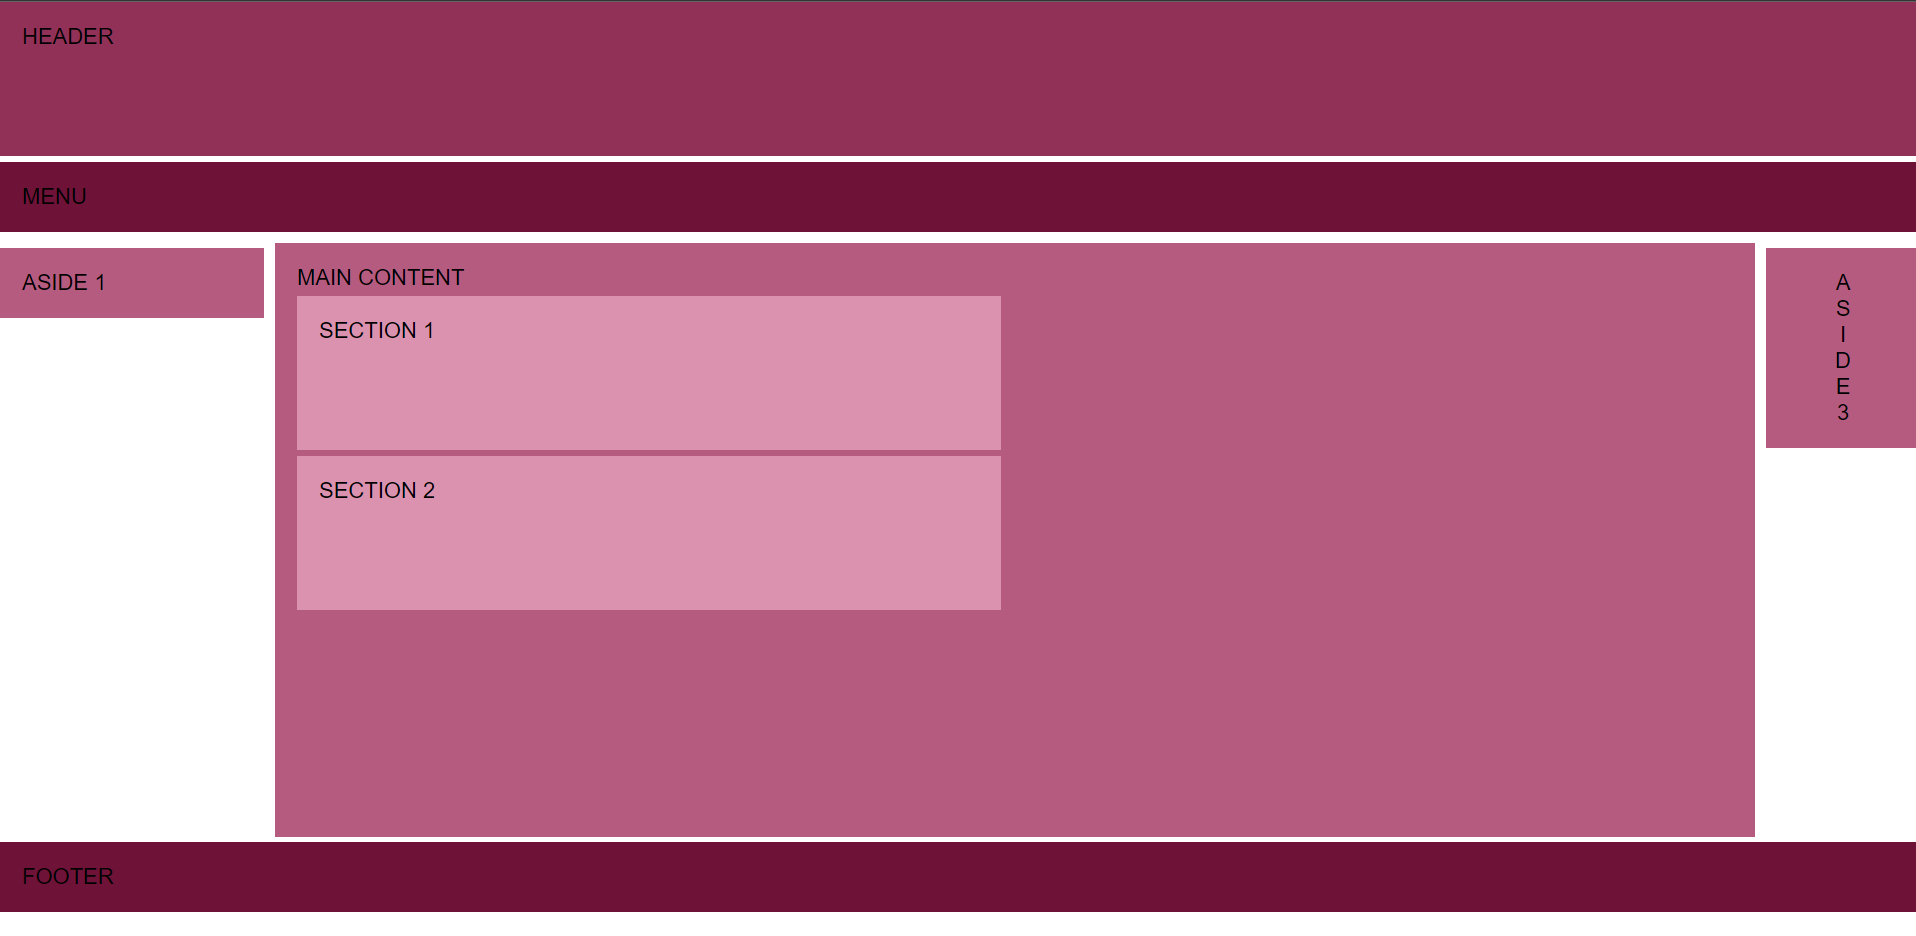
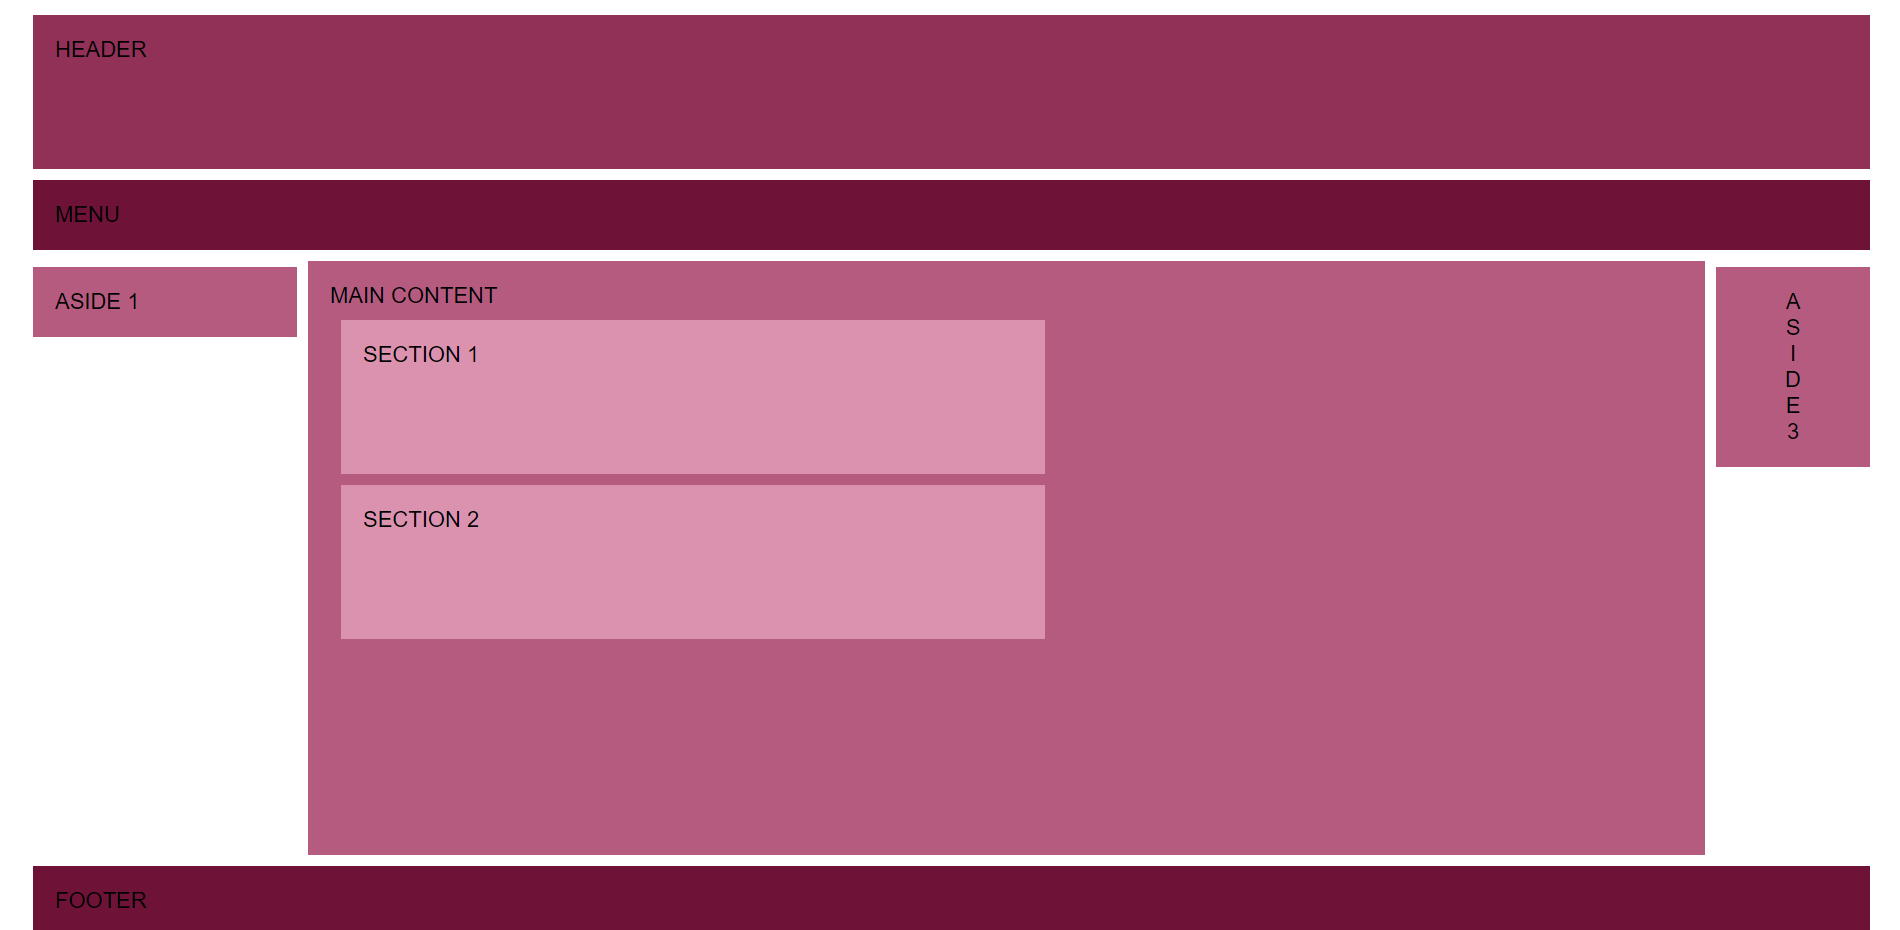
task3 HW3 finish

Changed region(s): [[0.0, 0.0, 1.0, 1.0]]

diff --git a/HW3/css/style3.css b/HW3/css/style3.css
@@ -1,6 +1,6 @@
 *{
     padding: 0px;
-    margin: 0px;
+    margin: 10px;
     border: none;
     color: black;
     font-size: 20px;
@@ -21,7 +21,7 @@ header{
 menu{
     background: #6E1237;
     padding: 20px;
-    margin: 5px 0px 5px 0px;
+    /*margin: 5px 0px 5px 0px;*/
 }
 
 main{
@@ -43,7 +43,7 @@ main{
     width: 200px;
     background: #B65B80;
     padding: 20px;
-    margin: 5px 0px 5px 0px;
+    /*margin: 5px 0px 5px 0px;*/
 }
 
 #aside3{
@@ -66,7 +66,7 @@ footer{
     height: 100px;
     background: #DB92AF;
     padding: 20px;
-    margin: 5px 0px 5px 0px;
+    /*margin: 5px 0px 5px 0px;*/
 }
 
 #section2{
@@ -74,5 +74,5 @@ footer{
     height: 100px;
     background: #DB92AF;
     padding: 20px;
-    margin: 5px 0px 5px 0px;
+    /*margin: 5px 0px 5px 0px;*/
 }
